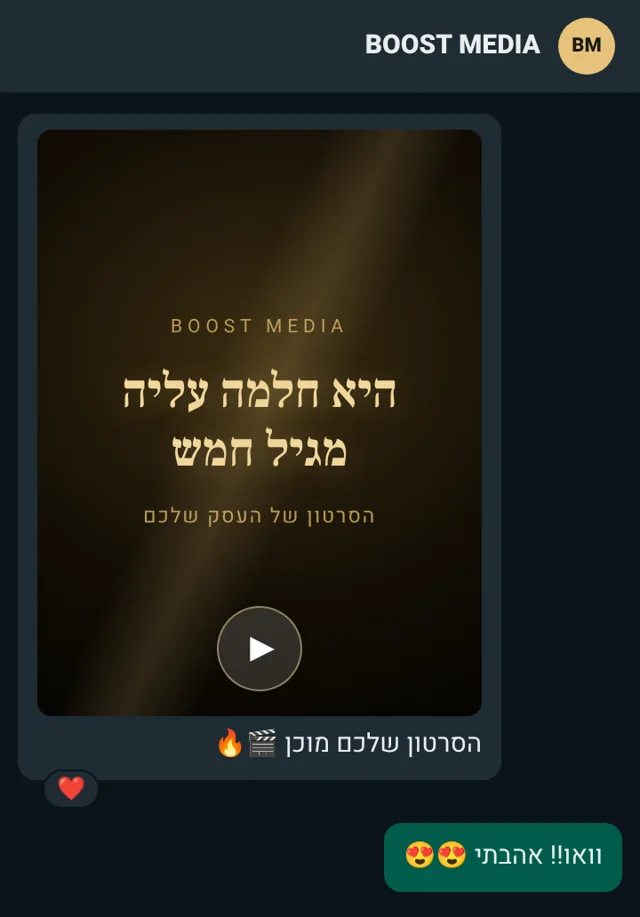
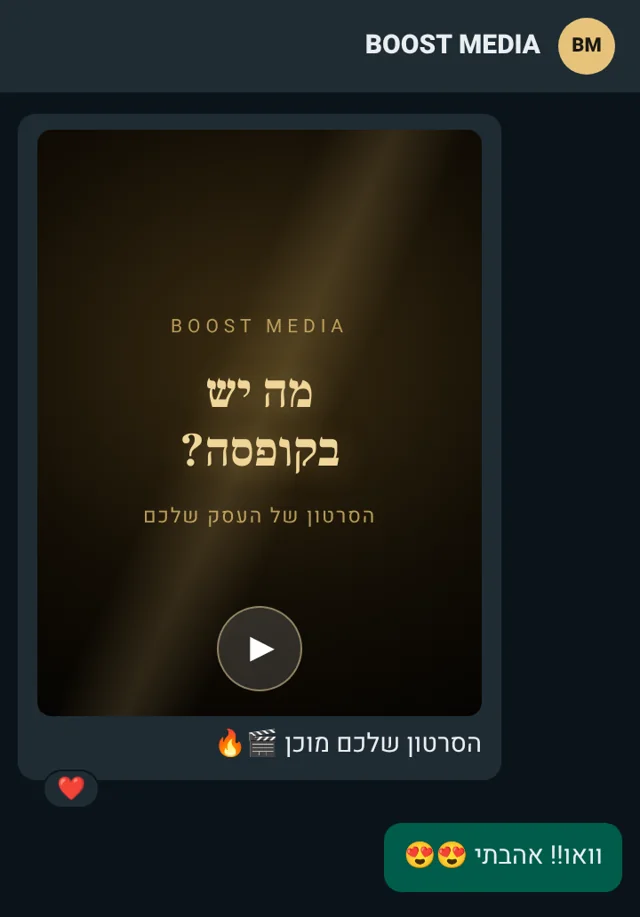
How it works: script proposal shows the chosen product, a simple script and the price
Claude-Session: https://claude.ai/code/session_015Kj6wZhrCRAfSfrvuRRH85

Changed region(s): [[0.1875, 0.3969, 0.625, 0.5191]]

diff --git a/index.html b/index.html
@@ -521,7 +521,7 @@ body>.wafb{position:fixed;inset-inline:16px;bottom:calc(88px + env(safe-area-ins
 .hw-dt h3{font-size:1.0625rem;line-height:1.3;margin:0 0 6px}.hw-dt p{margin:0;color:var(--inv-muted);font-size:.9375rem;line-height:1.5}.hw-dt p b{color:var(--inv-ink);font-weight:700}
 .hw-dx{appearance:none;border:0;background:none;color:var(--inv-ink);font:inherit;font-size:.875rem;text-decoration:underline;text-underline-offset:3px;padding:10px 0 2px;cursor:pointer}
 .hw-cta{margin-top:16px}.hw-cta .btn{width:100%;color:var(--ink);text-decoration:none}
-@media (max-width:600px){.hw-d{grid-template-columns:1fr;gap:10px;padding:10px}.hw-dimg{max-width:300px;margin-inline:auto;width:100%}.hw-dimg img{max-height:450px}}
+@media (max-width:600px){.hw-d{grid-template-columns:1fr;gap:10px;padding:10px}.hw-dimg{max-width:300px;margin-inline:auto;width:100%}.hw-dimg img{max-height:520px}}
 .how-steps h3,.how-steps h4{font-size:1.5rem;margin-bottom:8px}
 .how-way{margin-top:40px;scroll-margin-top:calc(var(--nav) + 16px)}.how-way+.how-way{margin-top:56px;padding-top:48px;border-top:1px solid rgba(255,255,255,.14)}
 .how-t{font-size:1.5rem;line-height:1.3;display:flex;flex-wrap:wrap;align-items:center;gap:8px 12px}.how-t span{font-size:.875rem;font-weight:700;color:var(--ink);background:var(--accent);border-radius:999px;padding:4px 12px}
@@ -887,7 +887,7 @@ dialog .undo{bottom:24px}
       </div>
       <div class="hw-p" id="how-scan" role="tabpanel" aria-labelledby="hwt-scan">
         <p class="hw-line">מדביקים קישור לעסק, מקבלים 3 תסריטים בוואטסאפ, ובוחרים אחד.</p>
-        <div class="hw-row"><button type="button" class="hw-s" aria-expanded="false" data-big="how/a1.webp" data-h="מדביקים קישור לעסק" data-d="מדביקים קישור לאתר או לאינסטגרם. אנחנו &lt;b&gt;סורקים את העסק&lt;/b&gt;, לומדים את המוצרים והסגנון, ו&lt;b&gt;בוחרים רעיונות שמתאימים בדיוק לו&lt;/b&gt;." data-ill="0"><span class="ph"><img src="how/a1-s.webp" alt="" loading="lazy" width="300" height="300"><i aria-hidden="true">1</i></span><b>מדביקים קישור</b></button><button type="button" class="hw-s" aria-expanded="false" data-big="how/a2.webp?2" data-h="מקבלים 3 תסריטים ובוחרים" data-d="לומדים את המוצרים, הצבעים והסגנון שלכם, ושולחים לכם בוואטסאפ 3 תסריטים מפורטים שנכתבו בשביל העסק שלכם. בכל תסריט: הסיפור, הסצנות אחת אחת, על מה הוא מבוסס והמחיר. עונים במספר של התסריט שאהבתם, למשל &quot;1 מעניין אותי&quot;." data-ill="1"><span class="ph"><img src="how/a2-s.webp?2" alt="" loading="lazy" width="300" height="300"><i aria-hidden="true">2</i><em>המחשה</em></span><b>בוחרים תסריט</b></button><button type="button" class="hw-s" aria-expanded="false" data-big="how/a3.webp?2" data-h="מקבלים את הסרטון" data-d="תוך 2 ימי עסקים הסרטון מגיע אליכם בוואטסאפ, מוכן לאינסטגרם, לטיקטוק ולאתר. רוצים לשנות משהו קטן? כותבים לנו." data-ill="1"><span class="ph"><img src="how/a3-s.webp?2" alt="" loading="lazy" width="300" height="300"><i aria-hidden="true">3</i><em>המחשה</em></span><b>מקבלים סרטון</b></button></div>
+        <div class="hw-row"><button type="button" class="hw-s" aria-expanded="false" data-big="how/a1.webp" data-h="מדביקים קישור לעסק" data-d="מדביקים קישור לאתר או לאינסטגרם. אנחנו &lt;b&gt;סורקים את העסק&lt;/b&gt;, לומדים את המוצרים והסגנון, ו&lt;b&gt;בוחרים רעיונות שמתאימים בדיוק לו&lt;/b&gt;." data-ill="0"><span class="ph"><img src="how/a1-s.webp" alt="" loading="lazy" width="300" height="300"><i aria-hidden="true">1</i></span><b>מדביקים קישור</b></button><button type="button" class="hw-s" aria-expanded="false" data-big="how/a2.webp?5" data-h="מקבלים 3 תסריטים ובוחרים" data-d="לומדים את המוצרים, הצבעים והסגנון שלכם, ושולחים לכם בוואטסאפ 3 תסריטים שנכתבו בשביל העסק שלכם. בכל תסריט: המוצר שנבחר מהאתר שלכם, הסיפור בקצרה, הסצנות והמחיר. עונים איזה תסריט אהבתם, למשל &quot;אחד נשמע טוב&quot;." data-ill="1"><span class="ph"><img src="how/a2-s.webp?5" alt="" loading="lazy" width="300" height="300"><i aria-hidden="true">2</i><em>המחשה</em></span><b>בוחרים תסריט</b></button><button type="button" class="hw-s" aria-expanded="false" data-big="how/a3.webp?5" data-h="מקבלים את הסרטון" data-d="תוך 2 ימי עסקים הסרטון מגיע אליכם בוואטסאפ, מוכן לאינסטגרם, לטיקטוק ולאתר. רוצים לשנות משהו קטן? כותבים לנו." data-ill="1"><span class="ph"><img src="how/a3-s.webp?5" alt="" loading="lazy" width="300" height="300"><i aria-hidden="true">3</i><em>המחשה</em></span><b>מקבלים סרטון</b></button></div>
         <p class="hw-hint">לחיצה על תמונה פותחת הסבר מפורט.</p>
         <div class="hw-d" hidden><div class="hw-dimg"><img alt=""><em hidden>המחשה</em></div><div class="hw-dt"><h3></h3><p></p><button type="button" class="hw-dx">סגירה</button></div></div>
         <div class="hw-cta"><button class="btn gold" type="button" data-scan>שלחו לי רעיונות <span class="arr" aria-hidden="true">←</span></button></div>
